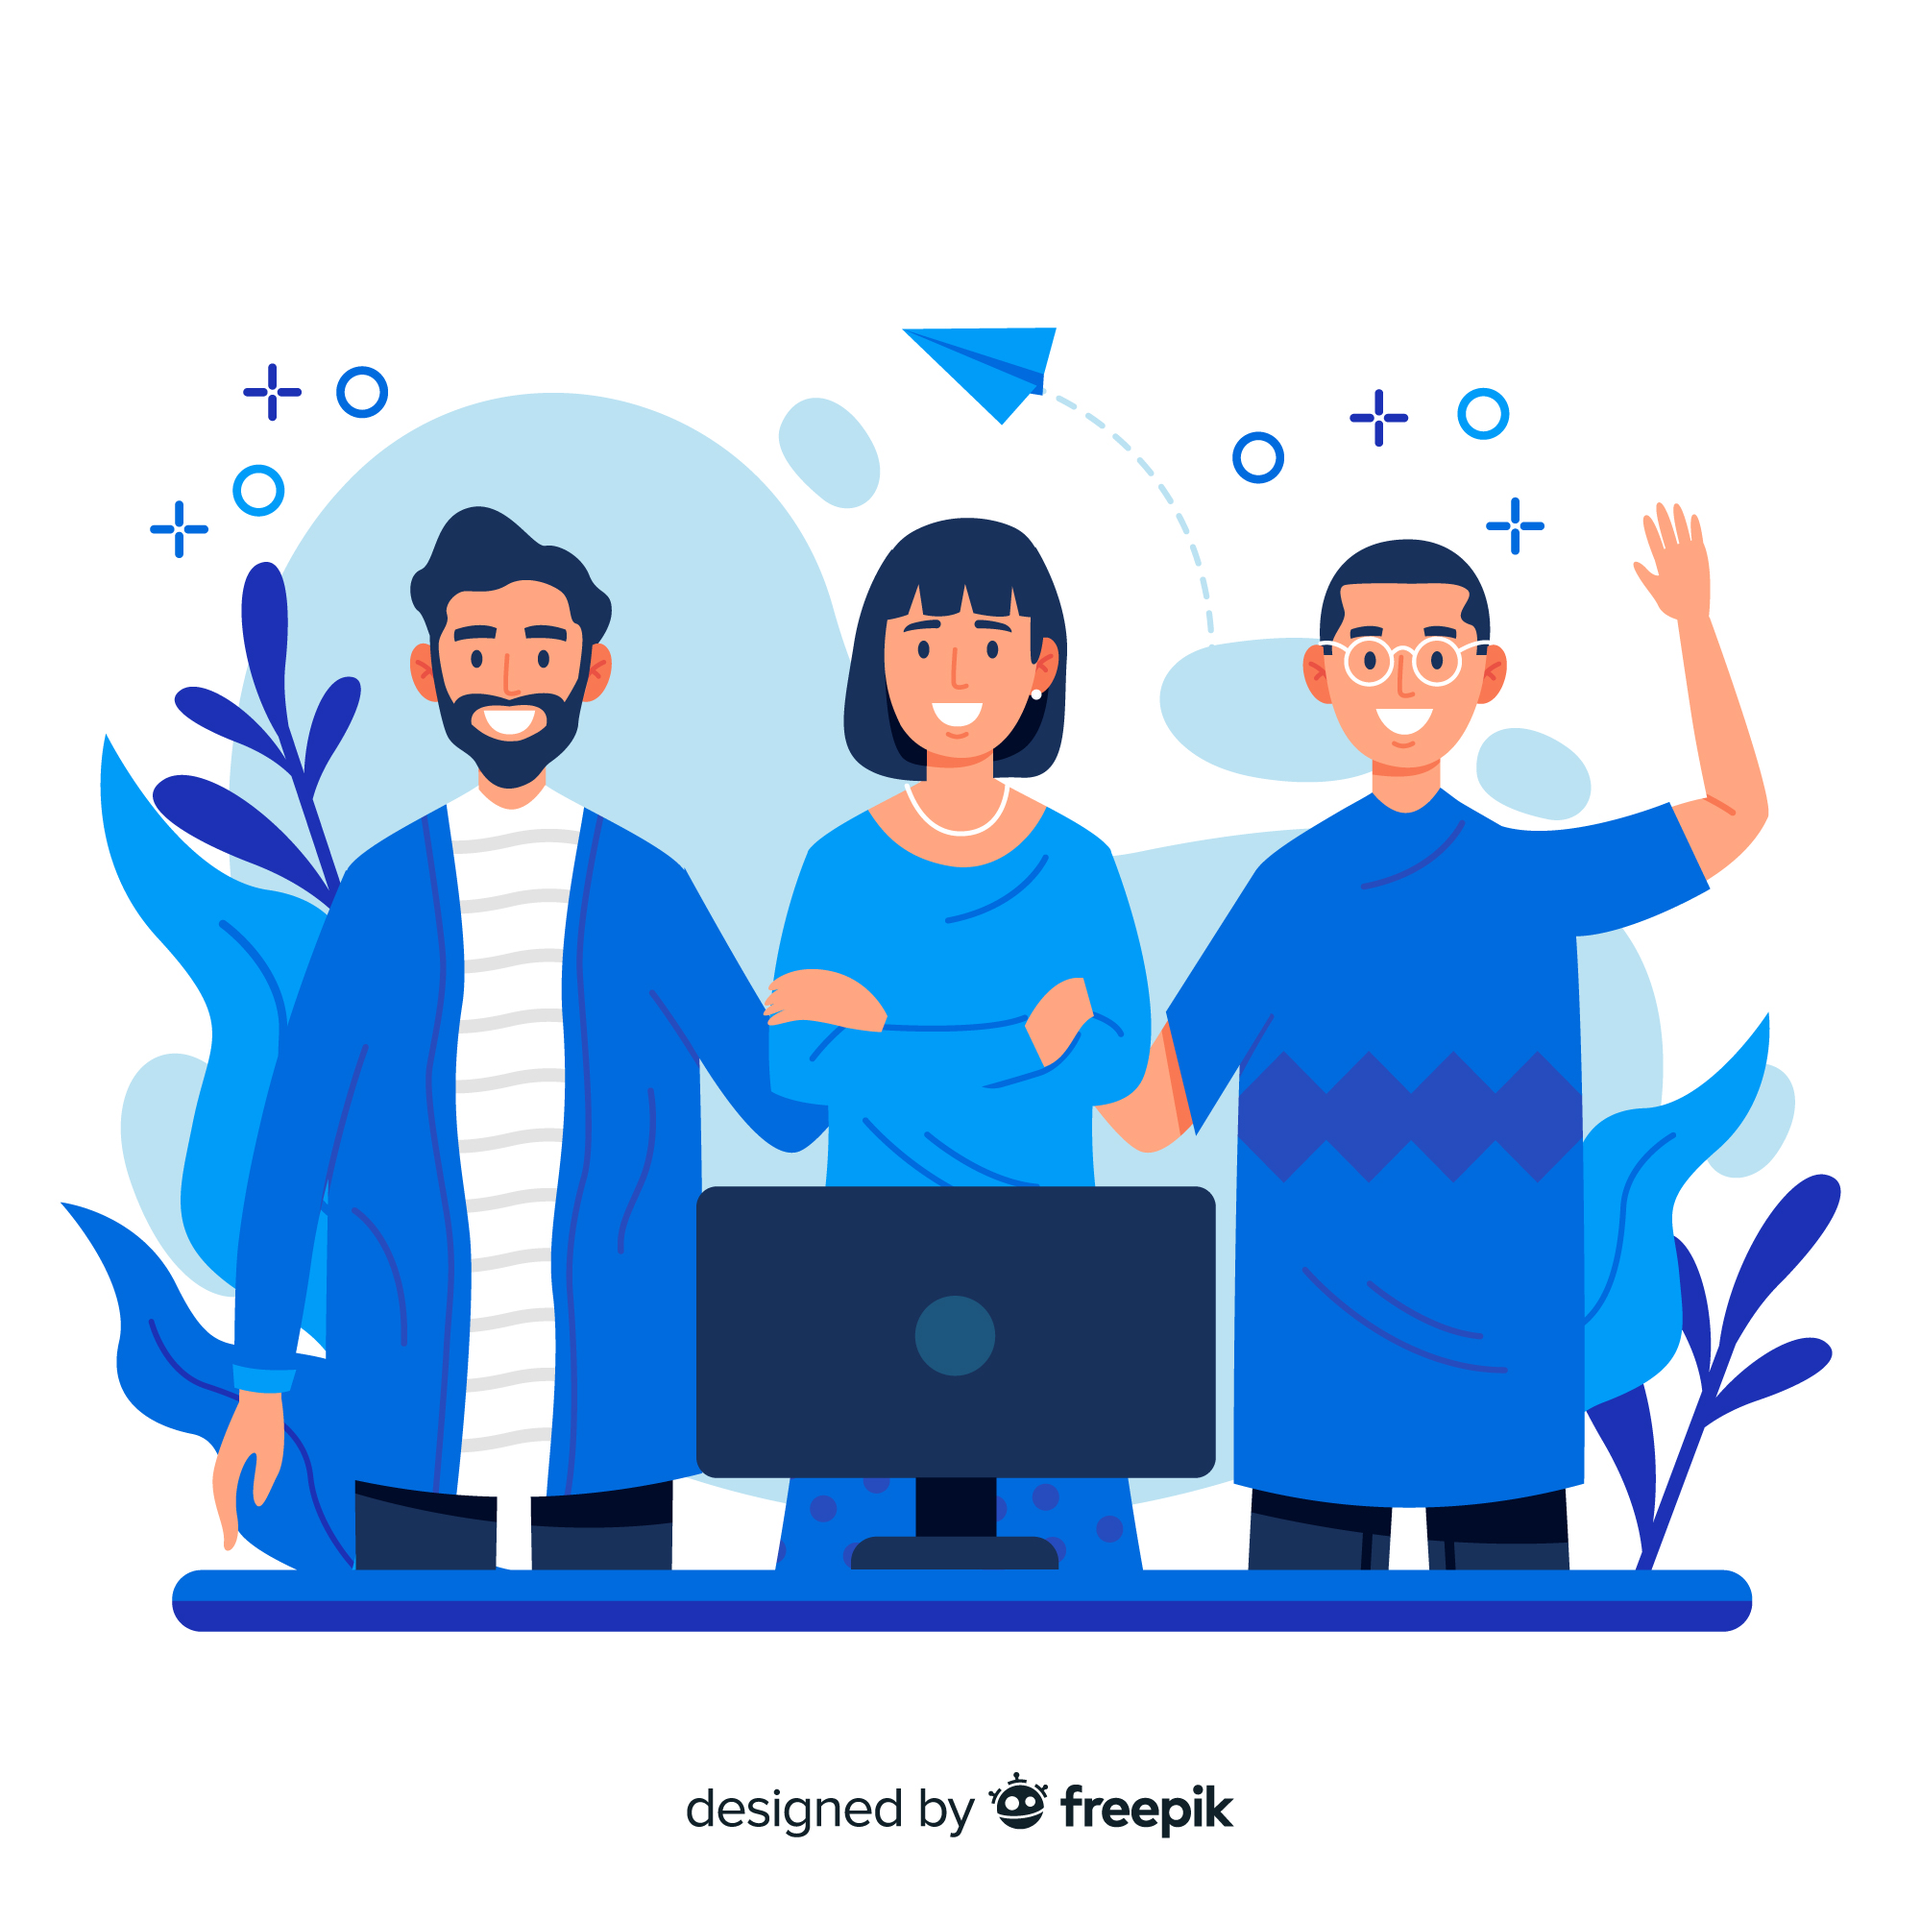
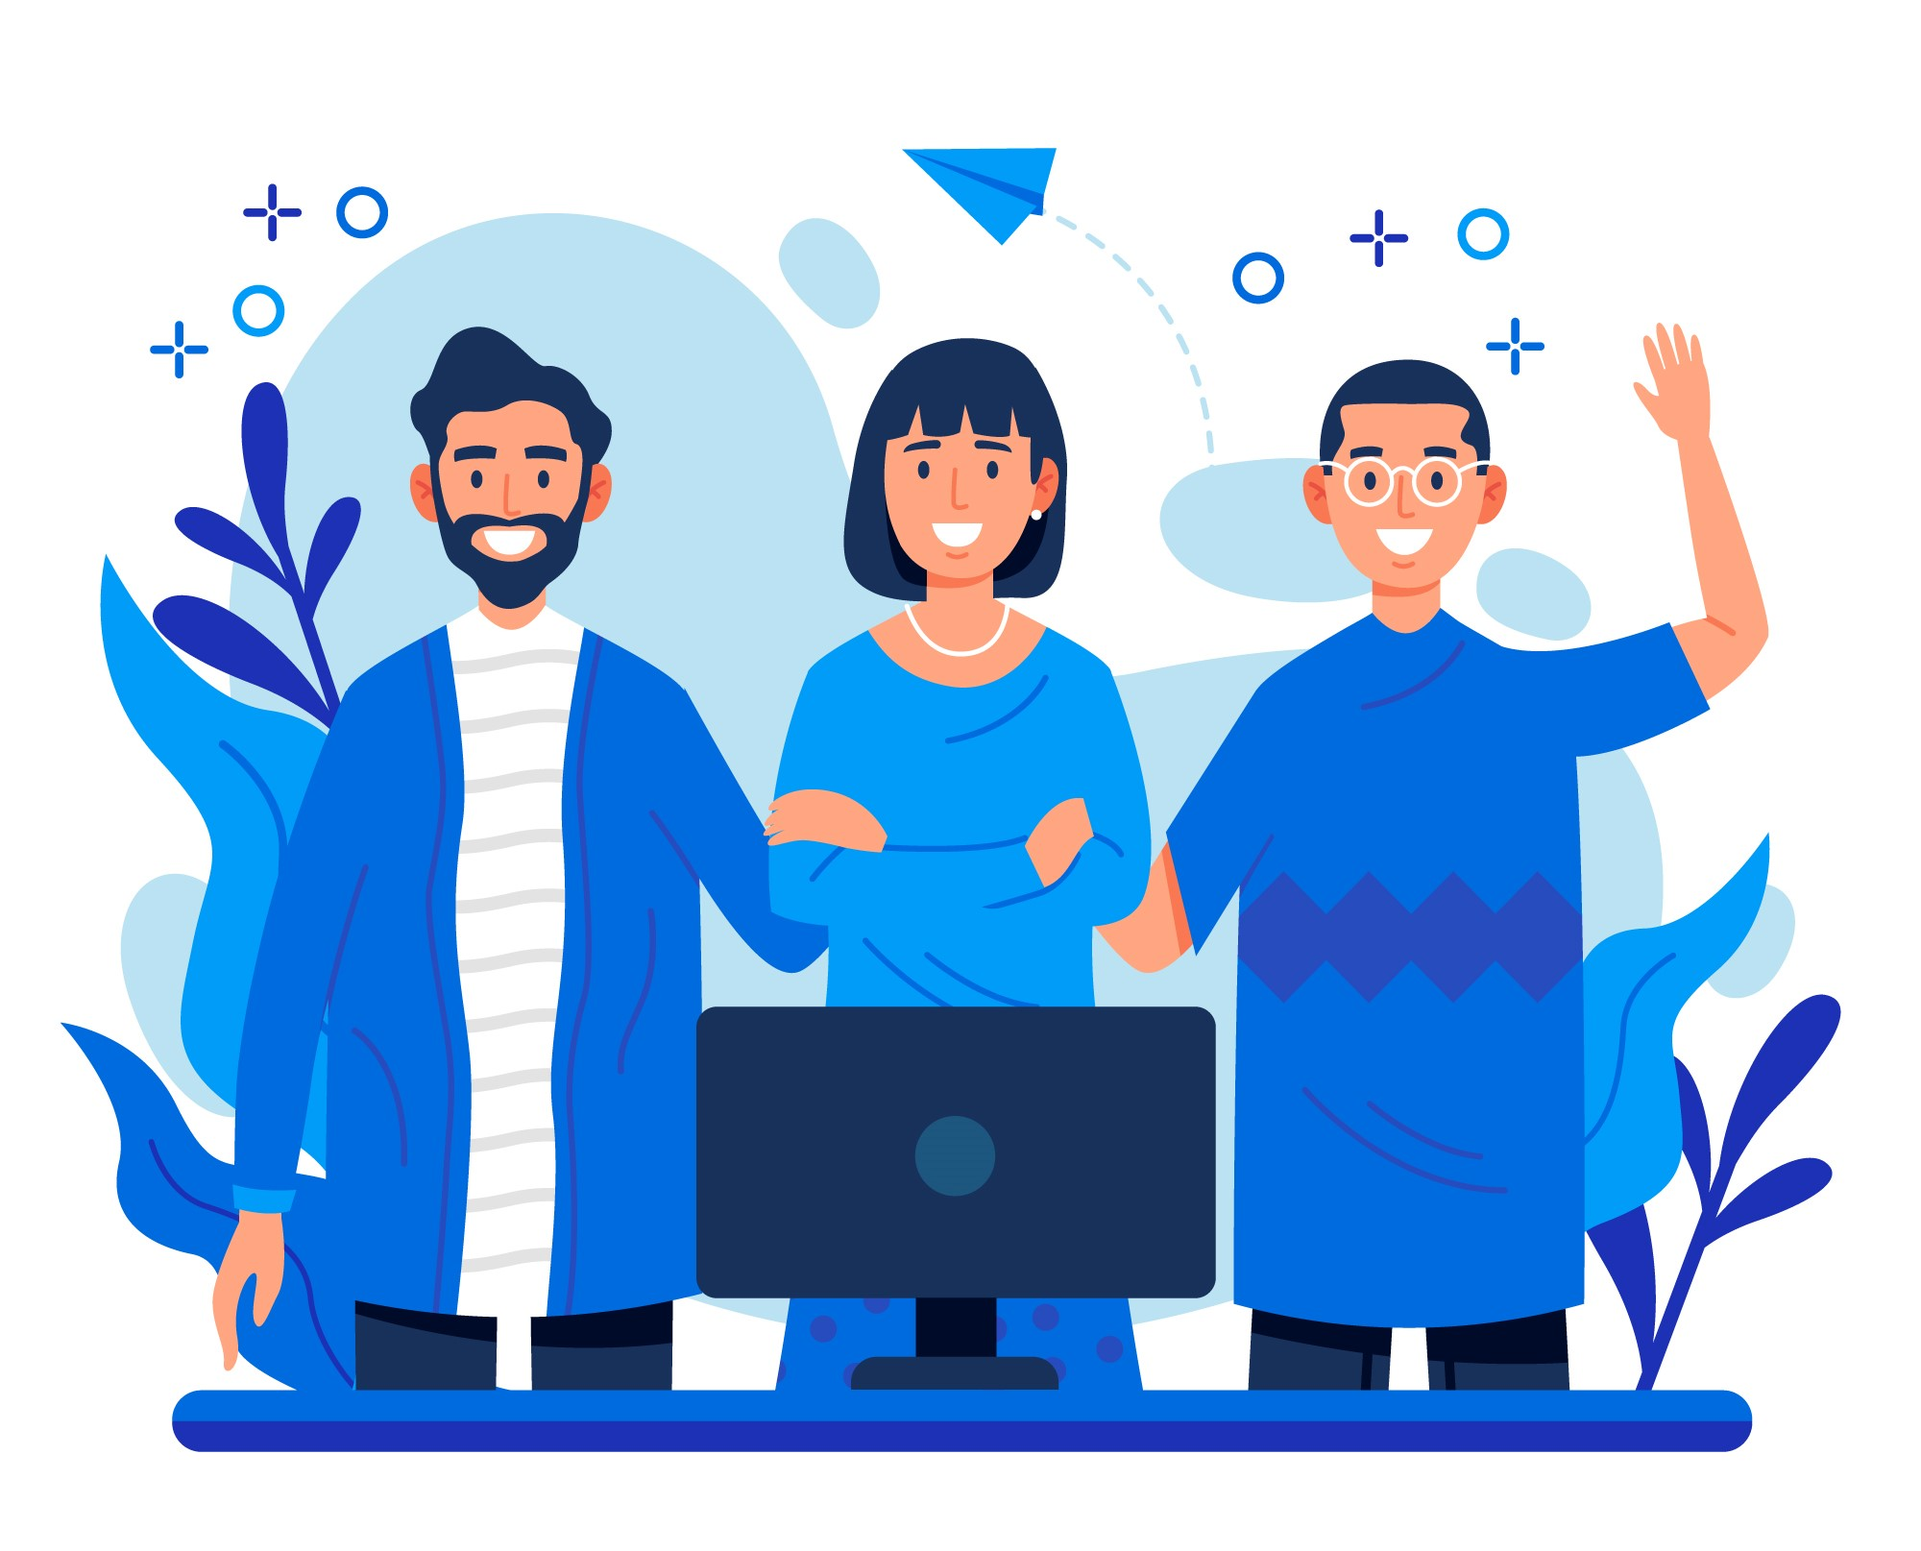
added updated version

Changed region(s): [[0.031, 0.0929, 0.961, 0.9598], [0.682, 0.6811, 0.775, 0.743], [0.341, 0.4334, 0.372, 0.4644]]

diff --git a/index.html b/index.html
@@ -35,7 +35,8 @@
     <nav class="navbar navbar-expand-lg bg-white navbar-light">
         <div class="container">
             <a href="#" class="navbar-brand">
-                <span>ProTech Soltuion</span>
+                <img src="img/ProTech Solution.png" alt="PTS-Logo">
+                <!-- <span>ProTech Soltuion</span> -->
             </a>
                       
 
@@ -57,7 +58,7 @@
                     <a href="#testimonials" class="nav-link">Testimonials</a>
                     <a href="#about" class="nav-link">About</a>
                     <a href="#faq" class="nav-link">FAQ</a>
-                    <a href="error.html" class="nav-link">Blog</a>
+                    <a href="error.html" class="nav-link d-none">Blog</a>
                     <div>
                     <a href="contact.html" class="btn btn-secondary shadow-none">Contact</a>
                     </div>
@@ -91,7 +92,7 @@
                     </div>
                 </div>
                 <div class="col-md-6">
-                    <img class="hero-img" src="img/hero2.jpg" alt="">
+                    <img class="hero-img w-100" src="img/thinking- white-bg.png" alt="">
                 </div>
             </div>
         </div>
@@ -199,7 +200,7 @@
 
                 <div class="col-12 col-sm-6 col-md-4 m-auto">
                     <div class="card border-0 shadow text-center my-3">
-                        <img src="img/sepsis-ss.png" class="card-img-top" alt="...">
+                        <img src="/img/sepsis-ss.png" class="card-img-top" alt="...">
                         <div class="card-body">
                           <h5 class="card-title">A ML Model for Accurate Prediction of Sepsis in ICU Patients</h5>
                           <p class="card-text">An advanced machine learning model developed to provide highly accurate predictions of sepsis in intensive care unit (ICU) patients.</p>
@@ -473,30 +474,29 @@
     </section>
     <!-- FAQ section -->
 
-
-    <!-- about us -->
-    <section class="a"></section>
-    <!-- about us -->
-
+   
 
 
     <!-- Footer section  -->
     <section class="mt-5">
         <!-- Footer -->
-        <footer class="text-center text-white" style="background-color: #15948a;;">
+        <footer class="text-center text-white" style="background-color: #197971;;">
           <!-- Grid container -->
-          <!-- <div class="container p-4 pb-0">
-            Section: CTA
-            <section class="">
-              <p class="d-flex justify-content-center align-items-center">
-                <span class="me-3">Click Here to</span>
-                <button type="button" class="btn btn-outline-light btn-rounded">
-                  Contact Us
-                </button>
-              </p>
-            </section>
-            Section: CTA
-          </div> -->
+          <div class="container p-4 pb-0">
+            <div class="row align-items-center justify-content-between">
+                <div class="col-md">
+                    <p><strong>Contact No.:</strong> +91 7796210369 <strong>Telegram id:</strong> <a href="https://t.me/PTSoltuion" class="text-light">PTSoltuion</a> <br> <strong>Email:</strong> protechsolution01@gmail.com</p>
+                </div>
+                <div class="col-md">
+                    <p class="d-flex justify-content-center align-items-center">
+                        <span class="me-3">Click Here to</span>
+                        <a href="http://wa.me/+917796210369" class="btn btn-outline-light btn-rounded">Message us on WhatsApp 
+                            <img src="img/wa-logo.png" class="wa-logo" alt="Whatsapp logo">
+                        </a>
+                    </p>
+                </div>
+            </div>
+          </div>
           <!-- Grid container -->
       
           <!-- Copyright -->

diff --git a/styles.css b/styles.css
@@ -196,7 +196,7 @@ i {
 }
 
 .wa-logo {
-    height: 50px;
+    height: 40px;
 }
 
 .qr{
